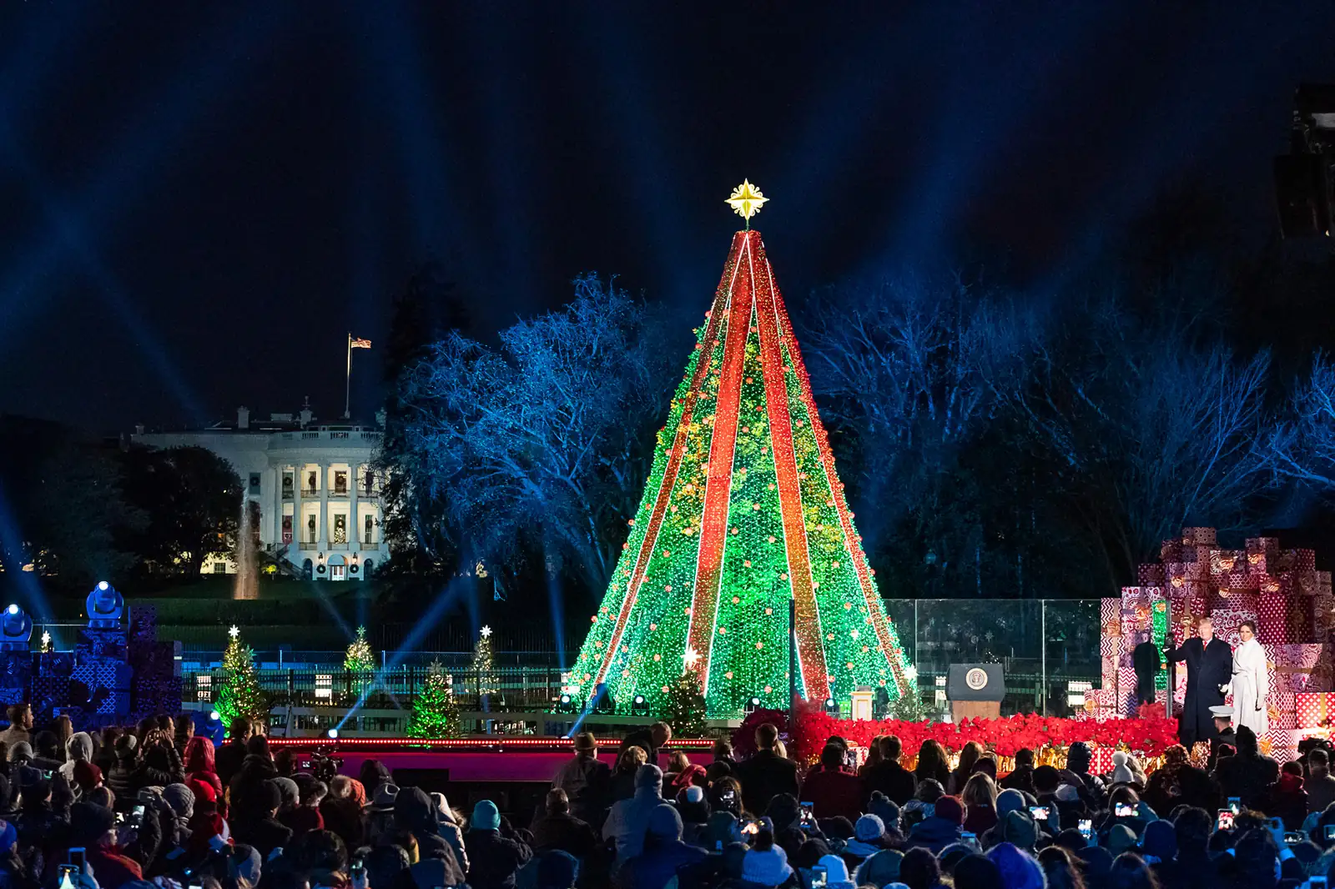
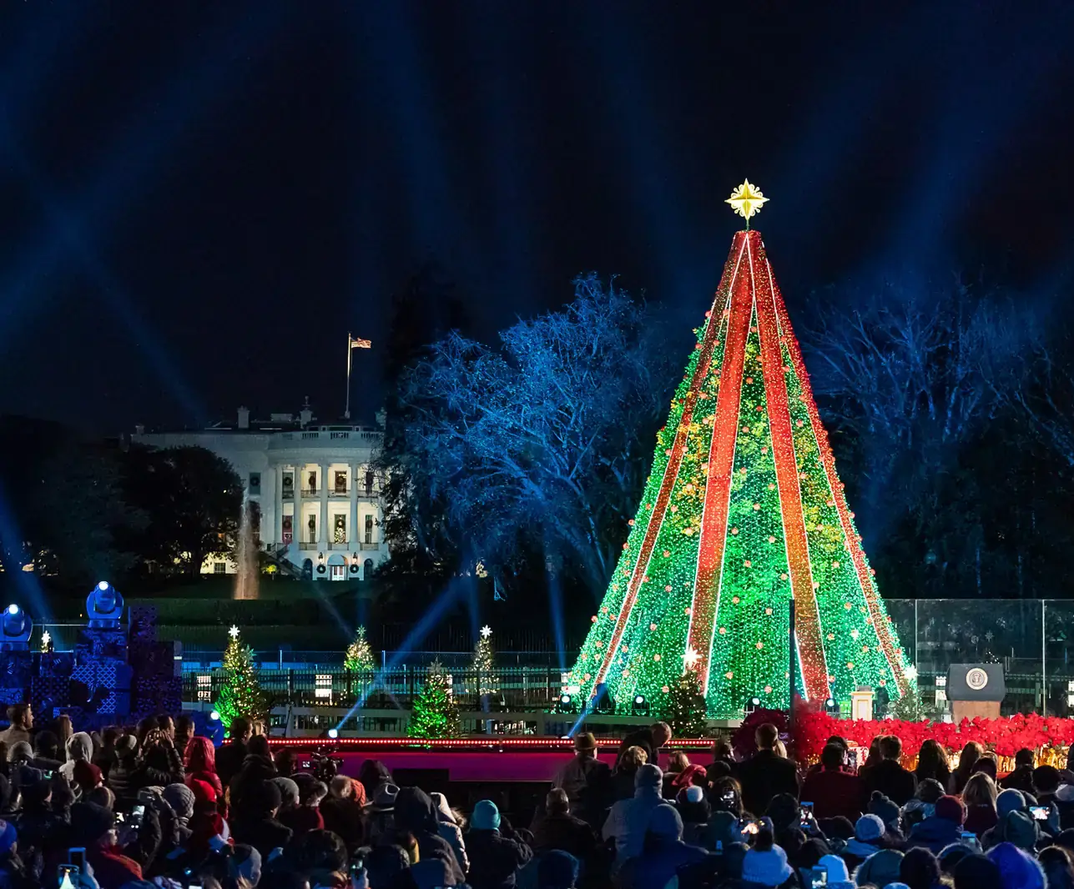
G16 step 4: Christmas in Washington, DC with kids
Claude-Session: https://claude.ai/code/session_018uWk6wfT1Zs6P4GHGXy4qS

diff --git a/site/holidays/washington-dc-christmas-with-kids.html b/site/holidays/washington-dc-christmas-with-kids.html
@@ -1,0 +1,243 @@
+<!doctype html>
+<html lang="en">
+  <head>
+    <meta charset="utf-8">
+    <meta name="viewport" content="width=device-width, initial-scale=1">
+    <title>Christmas in DC With Kids: Free and Paid Events, Family of 4 Cost | Family Tripwise</title>
+    <meta name="description" content="Christmas events in Washington, DC with kids: dates, what's free, ticket cost for a family of 4, ages and sensory sessions, from pages we read and date.">
+    <link rel="canonical" href="https://familytripwise.com/holidays/washington-dc-christmas-with-kids.html">
+    <meta property="og:type" content="article">
+    <meta property="og:site_name" content="Family Tripwise">
+    <meta property="og:title" content="Christmas in DC With Kids: Free and Paid Events, Family of 4 Cost | Family Tripwise">
+    <meta property="og:description" content="Christmas events in Washington, DC with kids: dates, what's free, ticket cost for a family of 4, ages and sensory sessions, from pages we read and date.">
+    <meta property="og:url" content="https://familytripwise.com/holidays/washington-dc-christmas-with-kids.html">
+    <meta property="og:image" content="https://familytripwise.com/images/og/holidays-washington-dc.png">
+    <meta property="og:image:type" content="image/png">
+    <meta property="og:image:width" content="1200">
+    <meta property="og:image:height" content="630">
+    <meta property="og:image:alt" content="Family Tripwise: Christmas in Washington, DC with kids, free and paid outings, cost for a family of 4">
+    <meta name="twitter:card" content="summary_large_image">
+    <link rel="stylesheet" href="../styles.css">
+  </head>
+  <body>
+    <a class="skip-link" href="#main">Skip to main content</a><header class="site-header"><a class="brand" href="../index.html" aria-label="Family Tripwise home"><svg class="brand-mark" viewBox="0 0 120 120" width="36" height="36" aria-hidden="true" focusable="false"><rect width="120" height="120" rx="26" fill="#0b4946"/><g transform="translate(60 62) scale(0.72) translate(-59 -62)"><circle cx="22" cy="30" r="10" fill="#fffaf2"/><rect x="12" y="45" width="20" height="59" rx="10" fill="#fffaf2"/><circle cx="46" cy="60" r="8" fill="#f0bd56"/><rect x="38.5" y="73" width="15" height="31" rx="7.5" fill="#f0bd56"/><circle cx="68" cy="66" r="7" fill="#8fd0c4"/><rect x="61.5" y="78" width="13" height="26" rx="6.5" fill="#8fd0c4"/><circle cx="96" cy="30" r="10" fill="#db6d4a"/><rect x="86" y="45" width="20" height="59" rx="10" fill="#db6d4a"/></g></svg><span class="brand-word"><span class="brand-word-a">family</span><span class="brand-word-b">tripwise</span></span></a><nav class="header-this-week-nav" aria-label="Fresh family events and deals"><a class="header-this-week header-deals" href="../deals/">Deals</a><a class="header-this-week" href="../this-week/">This week</a></nav><details class="city-menu"><summary><span class="menu-wide">Cities</span><span class="menu-narrow">Menu</span></summary><nav class="site-nav city-menu-list" aria-label="Site menu: this week, cities and how we check"><a class="menu-this-week" href="../this-week/">This week's events and deadlines</a><p class="menu-label" aria-hidden="true">Cities</p><a href="../where-to-stay/boston-family-hotels.html">Boston</a><a href="../where-to-stay/cancun-family-resorts.html">Cancun</a><a href="../things-to-do/chicago-with-kids.html">Chicago</a><a href="../things-to-do/las-vegas-with-kids.html">Las Vegas</a><a href="../where-to-stay/london-family-hotels.html">London, UK</a><a href="../things-to-do/new-york-city-with-kids.html">New York City</a><a href="../things-to-do/orlando-with-kids.html">Orlando</a><a href="../where-to-stay/puerto-vallarta-family-resorts.html">Puerto Vallarta</a><a href="../things-to-do/san-antonio-with-kids.html">San Antonio</a><a href="../things-to-do/san-diego-with-kids.html">San Diego</a><a href="../where-to-stay/washington-dc-family-hotels.html">Washington, DC</a><a class="menu-how" href="../about.html">How we check our facts</a></nav></details></header>
+    <main id="main" class="holiday-page">
+      <section class="page-hero">
+        <div class="container">
+          <p class="eyebrow">Washington, DC · Christmas with kids</p>
+          <h1>Christmas in Washington,&nbsp;DC With Kids: 11&nbsp;Outings and What They Cost a Family of 4</h1>
+          <p>Dates, what's free and ticket costs for 2 adults and 2 kids.</p>
+          <p class="contributor-credit">Researched with AI (<a href="../contributors/miles-rowan.html">Miles Rowan</a>) · sources linked and dated · <a href="../about.html">How we check</a></p>
+        </div>
+      </section>
+      <section id="holiday-answer" class="container answer-box" aria-label="The short answer">
+        <p class="holiday-answer-figure"><span>Paid outings: tickets for 4, per outing</span><strong>≈ $30 to $152</strong><small>estimate; these are starting or listed prices, and tax, fees or parking can add more.</small></p>
+        <ul>
+          <li><strong>Our pick for under 6:</strong> <a href="#seasons-greenings">Season&#39;s Greenings</a>, free, no tickets, strollers welcome</li>
+          <li><strong>Free:</strong> <a href="#holiday-market">DowntownDC Holiday Market</a>, from Nov 13; <a href="#seasons-greenings">Season&#39;s Greenings</a>, from Nov 26; <a href="#national-tree">National Christmas Tree lighting</a>, Dec 3, tickets by lottery; <a href="#wharf-boat-parade">Holiday Boat Parade &amp; Party</a>, Dec 5; 1 more below</li>
+          
+          
+        </ul>
+      </section>
+      <section class="container media-section hero-photo-section">
+        <figure class="licensed-photo hero-photo">
+          <img src="../images/dc-national-christmas-tree.webp" alt="The National Christmas Tree lit up at night on the Ellipse, with the White House behind it" width="1287" height="1066" loading="eager" fetchpriority="high" decoding="async">
+          <figcaption>The National Christmas Tree in 2018; an older photo, not this year&#39;s display. Photo: White House. Andrea Hanks, photographer via <a href="https://commons.wikimedia.org/wiki/File:2018_National_Christmas_Tree.jpg">Wikimedia Commons</a>, Public domain. Resized and cropped.</figcaption>
+        </figure>
+      </section>
+      <section class="container page-section" aria-labelledby="holiday-table-title">
+        <h2 id="holiday-table-title">Compare the 11 outings, free first</h2>
+        <div class="holiday-table-wrap">
+          <table class="holiday-table holiday-table-city">
+            <caption><span>Family of 4: 2 adults + 2 kids, ages 4 and 8. Estimates, not quotes; tax, fees or parking may be added, see each card. Bull Run is priced per vehicle. Travel and food not counted.</span></caption>
+            <thead><tr><th scope="col">Outing</th><th scope="col">Dates</th><th scope="col">Tickets for 4</th></tr></thead>
+            <tbody>
+              <tr><th scope="row"><a href="#holiday-market">DowntownDC Holiday Market</a><small>F Street NW, 7th to 9th Streets</small><small class="holiday-when-inline">Nov 13 to Dec 23</small></th><td class="holiday-when">Nov 13 to Dec 23</td><td class="holiday-cost">Free</td></tr>
+              <tr><th scope="row"><a href="#seasons-greenings">Season&#39;s Greenings</a><small>U.S. Botanic Garden, on the National Mall</small><small class="holiday-when-inline">Nov 26 to Jan 3, not Dec 25</small></th><td class="holiday-when">Nov 26 to Jan 3, not Dec 25</td><td class="holiday-cost">Free</td></tr>
+              <tr><th scope="row"><a href="#national-tree">National Christmas Tree lighting</a><small>The Ellipse, President&#39;s Park</small><small class="holiday-when-inline">Thu Dec 3, lottery tickets</small></th><td class="holiday-when">Thu Dec 3, lottery tickets</td><td class="holiday-cost">Free</td></tr>
+              <tr><th scope="row"><a href="#wharf-boat-parade">Holiday Boat Parade &amp; Party</a><small>The Wharf, District Pier</small><small class="holiday-when-inline">Sat Dec 5, from 5 p.m.</small></th><td class="holiday-when">Sat Dec 5, from 5 p.m.</td><td class="holiday-cost">Free</td></tr>
+              <tr><th scope="row"><a href="#frost-fair">Folger Frost Fair</a><small>Folger Shakespeare Library, Capitol Hill</small><small class="holiday-when-inline">Nov 27 to Jan 3</small></th><td class="holiday-when">Nov 27 to Jan 3</td><td class="holiday-cost">Free entry</td></tr>
+              <tr><th scope="row"><a href="#bull-run">Bull Run Festival of Lights</a><small>Bull Run, Centreville, VA</small><small class="holiday-when-inline">Nov 14 to Jan 3</small></th><td class="holiday-when">Nov 14 to Jan 3</td><td class="holiday-cost"><span class="holiday-nowrap">≈ $30 to $45</span></td></tr>
+              <tr><th scope="row"><a href="#zoolights">ZooLights</a><small>Smithsonian&#39;s National Zoo</small><small class="holiday-when-inline">Nov 20 to Jan 3, not Dec 16</small></th><td class="holiday-when">Nov 20 to Jan 3, not Dec 16</td><td class="holiday-cost"><span class="holiday-nowrap">≈ $40</span></td></tr>
+              <tr><th scope="row"><a href="#meadowlark">Winter Walk of Lights</a><small>Meadowlark Botanical Gardens, Vienna, VA</small><small class="holiday-when-inline">Nov 11 to Jan 3</small></th><td class="holiday-when">Nov 11 to Jan 3</td><td class="holiday-cost"><span class="holiday-nowrap">≈ $76 to $92</span></td></tr>
+              <tr><th scope="row"><a href="#enchant">Enchant Christmas</a><small>Nationals Park</small><small class="holiday-when-inline">Nov 20 to Dec 27</small></th><td class="holiday-when">Nov 20 to Dec 27</td><td class="holiday-cost"><span class="holiday-nowrap">From ≈ $112</span></td></tr>
+              <tr><th scope="row"><a href="#mount-vernon">Christmas Illuminations</a><small>George Washington&#39;s Mount Vernon, VA</small><small class="holiday-when-inline">Dec 19 and 20, evenings</small></th><td class="holiday-when">Dec 19 and 20, evenings</td><td class="holiday-cost"><span class="holiday-nowrap">≈ $152</span></td></tr>
+              <tr><th scope="row"><a href="#gaylord-ice">ice! at Gaylord National</a><small>Gaylord National Resort, National Harbor, MD</small><small class="holiday-when-inline">Nov 14 to Jan 3</small></th><td class="holiday-when">Nov 14 to Jan 3</td><td class="holiday-cost">Check live</td></tr>
+            </tbody>
+          </table>
+        </div>
+        
+      </section>
+      <section class="container page-section" aria-labelledby="holiday-pick-title">
+        <h2 id="holiday-pick-title">Which one fits your kids</h2>
+        <ul class="holiday-picks"><li><strong>Kids under 6:</strong> <a href="#seasons-greenings">Season&#39;s Greenings</a>. Daytime trains with no tickets, so you can leave when naps call.</li><li><strong>Ages 4 and 8 together:</strong> <a href="#zoolights">ZooLights</a>. Animal lanterns from 5 p.m., before bedtime, with a maze and mini-train for the older one.</li><li><strong>Keeping tickets at zero:</strong> <a href="#seasons-greenings">Season&#39;s Greenings</a>, <a href="#holiday-market">DowntownDC Holiday Market</a>, <a href="#wharf-boat-parade">Holiday Boat Parade &amp; Party</a>. Free to enter; food, parking and shopping may cost.</li><li><strong>Sensory-friendly:</strong> <a href="#seasons-greenings">Season&#39;s Greenings</a>. Dec 5 in the morning; sign up first. Jan 2 in the evening; sign up first.</li><li><strong>Staying in the car:</strong> <a href="#bull-run">Bull Run Festival of Lights</a>. A light drive that still works if a child falls asleep.</li><li><strong>One big night:</strong> <a href="#mount-vernon">Christmas Illuminations</a>. Two nights only, with a lit maze, a camel and fireworks.</li></ul>
+        <p class="holiday-note">Our picks from the published details, not from a visit. We have no crowd data of our own, so we don't name quiet nights.</p>
+      </section>
+      <section class="container page-section" aria-labelledby="holiday-cards-title">
+        <h2 id="holiday-cards-title">Outing by outing</h2>
+        <div class="holiday-cards">
+          <article id="holiday-market" class="holiday-card">
+            <h3>DowntownDC Holiday Market</h3>
+            <p class="holiday-place">F Street NW, 7th to 9th Streets</p>
+            <p class="holiday-figure">Free<small>checked Nov 4</small></p>
+            <p class="holiday-dates"><strong>When:</strong> Nov 13 to Dec 23, 2026, closed Thanksgiving; Mon to Thu noon to 8 p.m., Fri and Sat 11 a.m. to 9 p.m., Sun 11 a.m. to 8 p.m.</p>
+            <ul><li>A zone just for kids, says the tourism board</li><li>Lights, and live concerts Thursday to Sunday</li></ul>
+            <p><strong>Costs extra:</strong> Shopping and food; prices vary by vendor.</p>
+            <details class="ds-card-more"><summary>Ticket details, tips and sources</summary>
+            <p><strong>Ticket:</strong> Free to walk in, says the tourism board.</p>
+            <p><strong>Good to know:</strong> We saw no stroller notes for this street market. Weekend evenings: check before you bring a stroller. Metro: Gallery Place-Chinatown.</p>
+            <p class="holiday-source"><a href="https://www.downtowndc.org/holiday-market/">DowntownDC Holiday Market</a> · <a href="https://washington.org/dc-guide-to/downtown-holiday-market">Tourism board guide</a> (read Nov 4 unless noted)</p>
+            </details>
+          </article>
+          <article id="seasons-greenings" class="holiday-card">
+            <h3>Season&#39;s Greenings</h3>
+            <p class="holiday-place">U.S. Botanic Garden, on the National Mall</p>
+            <p class="holiday-figure">Free<small>checked Nov 4</small></p>
+            <p class="holiday-dates"><strong>When:</strong> Nov 26, 2026 to Jan 3, 2027; 10 a.m. to 5 p.m., closed Dec 25; to 8 p.m. on Dec 8, 10, 15, 17, 22 and 29</p>
+            <ul><li>Model trains running through national parks and landmarks made from plant parts</li><li>Strollers welcome</li><li>Sensory-friendly openings Dec 5 (morning) and Jan 2 (evening); sign up first</li></ul>
+            <p><strong>Costs extra:</strong> Getting there and food on evening music nights; we saw no prices.</p>
+            <details class="ds-card-more"><summary>Ticket details, tips and sources</summary>
+            <p><strong>Ticket:</strong> Free: the garden says no admission fee and no tickets for any area.</p>
+            <p><strong>Good to know:</strong> The trains may stop in bad weather, and the train display is outdoors, so check the sky first.</p>
+            <p class="holiday-source"><a href="https://www.usbg.gov/holiday">U.S. Botanic Garden holiday page</a> (read Nov 4 unless noted)</p>
+            </details>
+          </article>
+          <article id="national-tree" class="holiday-card">
+            <h3>National Christmas Tree lighting</h3>
+            <p class="holiday-place">The Ellipse, President&#39;s Park</p>
+            <p class="holiday-figure">Free<small>checked Nov 4</small></p>
+            <p class="holiday-dates"><strong>When:</strong> Thu Dec 3, 2026, by free ticket only; lottery entries end Nov 4 at 3 p.m. ET, winners told Nov 12</p>
+            <ul><li>The park service hasn&#39;t described this year&#39;s display yet</li><li>In 2025: 59 smaller trees with ornaments designed by students</li></ul>
+            <p><strong>Costs extra:</strong> Getting there; ticket holders get arrival and security details before the night.</p>
+            <details class="ds-card-more"><summary>Ticket details, tips and sources</summary>
+            <p><strong>Ticket:</strong> Free: no charge for the lottery or tickets, up to 5 per winner, and no fee to visit the tree site.</p>
+            <p><strong>Good to know:</strong> Entering doesn&#39;t guarantee tickets. The park service says visiting details are still to come, so we can&#39;t give viewing dates or hours yet, or stroller notes.</p>
+            <p class="holiday-source"><a href="https://www.nps.gov/whho/planyourvisit/national-christmas-tree.htm">National Park Service tree page</a> · <a href="https://www.nps.gov/whho/learn/news/2026-national-christmas-tree-lighting-ticket-lottery-opens-oct-28.htm">Lottery notice</a> (read Nov 4 unless noted)</p>
+            </details>
+          </article>
+          <article id="wharf-boat-parade" class="holiday-card">
+            <h3>Holiday Boat Parade &amp; Party</h3>
+            <p class="holiday-place">The Wharf, District Pier</p>
+            <p class="holiday-figure">Free<small>checked Nov 4</small></p>
+            <p class="holiday-dates"><strong>When:</strong> Sat Dec 5, 2026: activities from 5 p.m., boats 7 p.m., fireworks about 8 p.m.</p>
+            <ul><li>Photos with Santa in The Grove</li><li>Ornament decorating and games at M Street Landing</li><li>Lit boats, then fireworks over the channel</li></ul>
+            <p><strong>Costs extra:</strong> Parking in The Wharf&#39;s garages, which fill fast on event days; we saw no price.</p>
+            <details class="ds-card-more"><summary>Ticket details, tips and sources</summary>
+            <p><strong>Ticket:</strong> Free for spectators, says The Wharf.</p>
+            <p><strong>Good to know:</strong> Boats don&#39;t arrive until 7 p.m., so small kids can do Santa and crafts at 5 and leave early. Fireworks are loud.</p>
+            <p class="holiday-source"><a href="https://www.wharfdc.com/boatparade/">The Wharf boat parade</a> (read Nov 4 unless noted)</p>
+            </details>
+          </article>
+          <article id="frost-fair" class="holiday-card">
+            <h3>Folger Frost Fair</h3>
+            <p class="holiday-place">Folger Shakespeare Library, Capitol Hill</p>
+            <p class="holiday-figure holiday-figure-text">Free entry<small>checked Nov 4</small></p>
+            <p class="holiday-dates"><strong>When:</strong> Nov 27, 2026 to Jan 3, 2027; hours not on the festival page</p>
+            <ul><li>Printing press demonstrations, with a printed souvenir to take home</li><li>Free family acting workshop, Dec 5 at 11:30 a.m. and 1 p.m.</li><li>Free family storytimes, Dec 22 to 24 at 10:30 a.m.</li></ul>
+            <p><strong>Costs extra:</strong> Other programs may charge; check each one.</p>
+            <details class="ds-card-more"><summary>Ticket details, tips and sources</summary>
+            <p><strong>Ticket:</strong> The tourism board says free admission with pay-what-you-will timed passes; the Folger&#39;s page gives no price for the whole fair.</p>
+            <p><strong>Good to know:</strong> No age range, hours or stroller notes on the festival page. Check your pass and time first.</p>
+            <p class="holiday-source"><a href="https://www.folger.edu/whats-on/programs/folger-frost-fair/">Folger Frost Fair</a> · <a href="https://washington.org/things-to-do-this-december-in-washington-dc">Tourism board December guide</a> (read Nov 4 unless noted)</p>
+            </details>
+          </article>
+          <article id="bull-run" class="holiday-card">
+            <h3>Bull Run Festival of Lights</h3>
+            <p class="holiday-place">Bull Run, Centreville, VA</p>
+            <p class="holiday-figure">≈ $30 to $45<small>tickets for 4, estimate; $30 to $45 a vehicle online, by date, price checked Nov 4</small></p>
+            <p class="holiday-dates"><strong>When:</strong> Daily, Nov 14, 2026 to Jan 3, 2027, weather permitting; 5:30 to 9:30 p.m. Mon to Thu, to 10 p.m. Fri to Sun and holidays</p>
+            <ul><li>A light drive you do from your own car</li><li>Carnival at the end with a petting zoo, Holiday Village and Stable, included</li><li>Carnival rides and camel rides cost extra</li></ul>
+            <p><strong>Costs extra:</strong> Tax, transaction fees, and rides, which aren&#39;t priced on the page.</p>
+            <details class="ds-card-more"><summary>Ticket details, tips and sources</summary>
+            <p><strong>Ticket:</strong> Price is per vehicle, not per person; buying early saves the most.</p>
+            <p><strong>Good to know:</strong> The carnival is closed on Thanksgiving; the light drive runs. You&#39;ll need a car, and this one is outside DC.</p>
+            <p class="holiday-source"><a href="https://www.novaparks.com/events/bull-run-festival-of-lights">NOVA Parks: Bull Run</a> (read Nov 4 unless noted)</p>
+            </details>
+          </article>
+          <article id="zoolights" class="holiday-card">
+            <h3>ZooLights</h3>
+            <p class="holiday-place">Smithsonian&#39;s National Zoo</p>
+            <p class="holiday-figure">≈ $40<small>tickets for 4, estimate; $10 each, ages 3 and up; 2 and under free, price checked Nov 4</small></p>
+            <p class="holiday-dates"><strong>When:</strong> Nov 20, 2026 to Jan 3, 2027; 5 to 9 p.m., Sundays to 8 p.m.; last entry 30 minutes before close; Dec 16 is 21+ only, Dec 8 and 9 are Member Nights</p>
+            <ul><li>Animal lanterns across ocean, desert, grassland, rainforest and polar areas</li><li>Winter maze, mini-train and carousel at extra cost</li><li>Saturday carolers on Dec 5, 12, 19 and 26</li></ul>
+            <p><strong>Costs extra:</strong> Parking $30 ahead or $40 that day; maze, mini-train and carousel $6 each; light-up glasses $3.</p>
+            <details class="ds-card-more"><summary>Ticket details, tips and sources</summary>
+            <p><strong>Ticket:</strong> Buy ahead: the zoo says capacity is limited. No refunds; exchanges up to 48 hours before.</p>
+            <p><strong>Good to know:</strong> Most animals are resting and indoor houses closed on regular nights, so go for the lights. The page has no stroller notes.</p>
+            <p class="holiday-source"><a href="https://nationalzoo.si.edu/visit/events/zoolights">National Zoo: ZooLights</a> (read Nov 4 unless noted)</p>
+            </details>
+          </article>
+          <article id="meadowlark" class="holiday-card">
+            <h3>Winter Walk of Lights</h3>
+            <p class="holiday-place">Meadowlark Botanical Gardens, Vienna, VA</p>
+            <p class="holiday-figure">≈ $76 to $92<small>tickets for 4, estimate; $19 each online to Dec 3 and Jan 1 to 3, $23 Dec 4 to 31; no child price shown, price checked Nov 4</small></p>
+            <p class="holiday-dates"><strong>When:</strong> Nov 11, 2026 to Jan 3, 2027; from 5:30 p.m. to Dec 3, from 5 p.m. after; last entry 9:30 p.m.</p>
+            <ul><li>Half-mile paved trail, stroller and wheelchair accessible</li><li>Hot drinks, pretzels and make-your-own s&#39;mores for sale</li></ul>
+            <p><strong>Costs extra:</strong> Tax and transaction fees; door price $24 when sold at the door.</p>
+            <details class="ds-card-more"><summary>Ticket details, tips and sources</summary>
+            <p><strong>Ticket:</strong> Dec 4 to 31 is online only, no door tickets.</p>
+            <p><strong>Good to know:</strong> The page doesn&#39;t say if babies or toddlers need a ticket. You&#39;ll need a car, and this one is outside DC. Tickets can&#39;t be refunded.</p>
+            <p class="holiday-source"><a href="https://www.novaparks.com/events/winter-walk-of-lights/ticket-information">NOVA Parks: ticket information</a> (read Nov 4 unless noted)</p>
+            </details>
+          </article>
+          <article id="enchant" class="holiday-card">
+            <h3>Enchant Christmas</h3>
+            <p class="holiday-place">Nationals Park</p>
+            <p class="holiday-figure">From ≈ $112<small>tickets for 4, estimate; from $28 a ticket; price varies by date, time and demand, price checked Nov 4</small></p>
+            <p class="holiday-dates"><strong>When:</strong> Nov 20 to Dec 27, 2026</p>
+            <ul><li>Light maze billed as the world&#39;s largest</li><li>Santa visit, live music and caroling</li><li>Skating and a snow slide at extra cost</li></ul>
+            <p><strong>Costs extra:</strong> Parking, skating and the snow slide are add-ons; we saw no prices.</p>
+            <details class="ds-card-more"><summary>Ticket details, tips and sources</summary>
+            <p><strong>Ticket:</strong> A family offer for 2 adults and 2 juniors is listed; we saw no price for it.</p>
+            <p><strong>Good to know:</strong> no refunds; date changes up to 24 hours before. We saw no age or stroller rules.</p>
+            <p class="holiday-source"><a href="https://www.enchantchristmas.com/washington-dc/">Enchant Christmas DC</a> (read Nov 4 unless noted)</p>
+            </details>
+          </article>
+          <article id="mount-vernon" class="holiday-card">
+            <h3>Christmas Illuminations</h3>
+            <p class="holiday-place">George Washington&#39;s Mount Vernon, VA</p>
+            <p class="holiday-figure">≈ $152<small>tickets for 4, estimate; $58 ages 12+, $36 ages 6 to 11, 5 and under free; your 4-year-old is free, price checked Nov 4</small></p>
+            <p class="holiday-dates"><strong>When:</strong> Sat Dec 19 and Sun Dec 20, 2026, 5:30 to 8:30 p.m.; fireworks about 8 p.m.</p>
+            <ul><li>Straw-bale kids&#39; maze filled with Christmas lights</li><li>Aladdin the Camel and carols in the field</li><li>Fireworks over the Potomac</li></ul>
+            <p><strong>Costs extra:</strong> Parking is free, first come. Mansion tour add-on $5; s&#39;mores kit $8 for 2.</p>
+            <details class="ds-card-more"><summary>Ticket details, tips and sources</summary>
+            <p><strong>Ticket:</strong> Separate from daytime estate tickets: the estate closes between the two.</p>
+            <p><strong>Good to know:</strong> Large strollers and stroller wagons aren&#39;t allowed on the east lawn; the page gives no other stroller rule. Fireworks are loud and late for small kids.</p>
+            <p class="holiday-source"><a href="https://www.mountvernon.org/plan-your-visit/calendar/events/christmas-illuminations-at-mount-vernon">Mount Vernon event page</a> (read Nov 4 unless noted)</p>
+            </details>
+          </article>
+          <article id="gaylord-ice" class="holiday-card">
+            <h3>ice! at Gaylord National</h3>
+            <p class="holiday-place">Gaylord National Resort, National Harbor, MD</p>
+            <p class="holiday-figure holiday-figure-text">Check live<small>we couldn't read a price on Nov 4</small></p>
+            <p class="holiday-dates"><strong>When:</strong> Resort Christmas season Nov 14, 2026 to Jan 3, 2027; the ice! page lists no separate dates</p>
+            <ul><li>Grinch-themed ice sculptures and two-story ice slides, billed for all ages</li><li>Self-guided, with no time limit</li><li>Free Coca-Cola Christmas Caravan, Nov 15 to 18 only</li></ul>
+            <p><strong>Costs extra:</strong> Tickets and day parking; neither price is on the pages we could read.</p>
+            <details class="ds-card-more"><summary>Ticket details, tips and sources</summary>
+            <p><strong>Ticket:</strong> Tickets sell through the resort&#39;s ticket link; bundle passes and some ID discounts are listed.</p>
+            <p><strong>Good to know:</strong> It&#39;s kept at 9 degrees Fahrenheit, so bring real coats. No stroller rule on the page. Blackout dates apply to offers.</p>
+            <p class="holiday-source"><a href="https://www.christmasatgaylordnational.com/ice">ice! page</a> · <a href="https://www.christmasatgaylordnational.com/">Season dates</a> (read Nov 4 unless noted)</p>
+            </details>
+          </article>
+        </div>
+      </section>
+      <section class="container page-section" aria-labelledby="holiday-also-title">
+        <h2 id="holiday-also-title">More to look up</h2>
+        <p>Dates from the <a href="https://washington.org/things-to-do-this-december-in-washington-dc">Destination DC December guide</a>, the tourism board, read Nov 4. It lists no prices for these, and we haven't checked them further.</p>
+        <ul class="holiday-picks"><li>Jingle Block Rock, free, with Santa photos and donut decorating: Dec 2, 5 to 7 p.m., Southwest Duck Pond</li><li>Georgetown Jingle, free music along M Street: Dec 6</li><li>Step Afrika! Magical Musical Holiday Step Show, Arena Stage: Dec 4 to 23</li><li>The Nutcracker, The Washington Ballet, Warner Theatre: through Dec 27</li><li>Skating rinks open for winter; last year&#39;s dates only on the guide, so check each rink</li></ul>
+      </section>
+      <section class="container page-section" aria-labelledby="holiday-more-title">
+        <h2 id="holiday-more-title">Planning the rest of the trip</h2>
+        <ul class="holiday-picks">
+          <li><a href="../family-itinerary/washington-dc-with-kids.html">A Washington, DC day plan with kids</a>, all year</li>
+          <li><a href="../where-to-stay/washington-dc-family-hotels.html">Family hotels in Washington, DC</a></li>
+          <li><a href="./theme-park-christmas-events-with-kids.html">Theme park Christmas events, compared</a></li>
+        </ul>
+      </section>
+      <section class="container trust-panel" aria-label="How we check">
+        <p><strong>How we check:</strong> we read organizer or official tourism pages on the date shown, and say so when a fact comes only from a news report. Market and Frost Fair entry notes come from the tourism board where the organizer&#39;s page doesn&#39;t say. We have not been to these events. Family figures add the published prices for 2 adults and 2 kids.</p>
+      </section>
+    </main>
+    <footer class="site-footer"><p>Family Tripwise uses research-based planning notes. Hotel fees, hours, policies, closures, and transit conditions can change, so verify important details before booking.</p><nav class="guide-directory" aria-label="All family guides"><h2>All family guides</h2><ul><li><span class="guide-directory-city">Chicago:</span> <a href="../things-to-do/chicago-with-kids.html">Things to do with kids</a><span aria-hidden="true"> · </span><a href="../things-to-do/chicago-with-teens.html">Chicago with teens</a><span aria-hidden="true"> · </span><a href="../where-to-stay/chicago-with-kids.html">Where to stay (areas)</a><span aria-hidden="true"> · </span><a href="../where-to-stay/chicago-family-hotels.html">Family hotels</a><span aria-hidden="true"> · </span><a href="../family-itinerary/chicago-with-kids.html">Family itinerary</a></li><li><span class="guide-directory-city">San Antonio:</span> <a href="../things-to-do/san-antonio-with-kids.html">Things to do with kids</a><span aria-hidden="true"> · </span><a href="../things-to-do/san-antonio-with-teens.html">San Antonio with teens</a><span aria-hidden="true"> · </span><a href="../where-to-stay/san-antonio-with-kids.html">Where to stay (areas)</a><span aria-hidden="true"> · </span><a href="../where-to-stay/san-antonio-family-hotels.html">Family hotels</a><span aria-hidden="true"> · </span><a href="../family-itinerary/san-antonio-with-kids.html">Family itinerary</a></li><li><span class="guide-directory-city">San Diego:</span> <a href="../things-to-do/san-diego-with-kids.html">Things to do with kids</a><span aria-hidden="true"> · </span><a href="../things-to-do/san-diego-with-toddlers.html">San Diego with toddlers</a><span aria-hidden="true"> · </span><a href="../things-to-do/san-diego-with-teens.html">San Diego with teens</a><span aria-hidden="true"> · </span><a href="../where-to-stay/san-diego-with-kids.html">Where to stay (areas)</a><span aria-hidden="true"> · </span><a href="../where-to-stay/san-diego-family-hotels.html">Family hotels</a><span aria-hidden="true"> · </span><a href="../family-itinerary/san-diego-with-kids.html">Family itinerary</a></li><li><span class="guide-directory-city">Las Vegas:</span> <a href="../things-to-do/las-vegas-with-kids.html">Things to do with kids</a><span aria-hidden="true"> · </span><a href="../things-to-do/las-vegas-with-teens.html">Las Vegas with teens</a><span aria-hidden="true"> · </span><a href="../where-to-stay/las-vegas-with-kids.html">Where to stay (areas)</a><span aria-hidden="true"> · </span><a href="../where-to-stay/las-vegas-family-hotels.html">Family hotels</a><span aria-hidden="true"> · </span><a href="../family-itinerary/las-vegas-with-kids.html">Family itinerary</a></li><li><span class="guide-directory-city">New York City:</span> <a href="../things-to-do/new-york-city-with-kids.html">Things to do with kids</a><span aria-hidden="true"> · </span><a href="../things-to-do/new-york-city-with-teens.html">New York City with teens</a><span aria-hidden="true"> · </span><a href="../where-to-stay/new-york-city-with-kids.html">Where to stay (areas)</a><span aria-hidden="true"> · </span><a href="../where-to-stay/new-york-city-family-hotels.html">Family hotels</a><span aria-hidden="true"> · </span><a href="../family-itinerary/new-york-city-with-kids.html">Family itinerary</a></li><li><span class="guide-directory-city">Orlando:</span> <a href="../things-to-do/orlando-with-kids.html">Things to do with kids</a><span aria-hidden="true"> · </span><a href="../where-to-stay/orlando-family-hotels.html">Family suite hotels</a></li><li><span class="guide-directory-city">Washington, DC:</span> <a href="../where-to-stay/washington-dc-family-hotels.html">Family hotels</a><span aria-hidden="true"> · </span><a href="../family-itinerary/washington-dc-with-kids.html">Family itinerary</a></li><li><span class="guide-directory-city">Boston:</span> <a href="../where-to-stay/boston-family-hotels.html">Family hotels</a><span aria-hidden="true"> · </span><a href="../family-itinerary/boston-with-kids.html">Family itinerary</a></li><li><span class="guide-directory-city">London:</span> <a href="../where-to-stay/london-family-hotels.html">Family hotels and apartments</a></li><li><span class="guide-directory-city">Cancun:</span> <a href="../where-to-stay/cancun-family-resorts.html">Family resorts</a></li><li><span class="guide-directory-city">Puerto Vallarta:</span> <a href="../where-to-stay/puerto-vallarta-family-resorts.html">Family resorts</a></li></ul></nav><p class="footer-links"><a href="../about.html">How our family travel guides are built</a><span aria-hidden="true"> · </span><a href="../privacy.html">Privacy</a><span aria-hidden="true"> · </span><a href="../terms.html">Terms</a></p></footer>
+  </body>
+</html>

diff --git a/site/this-week/index.html b/site/this-week/index.html
@@ -37,7 +37,7 @@
       <section id="this-week-answer" class="container answer-box" aria-label="Coming up first">
         <p><strong>Coming up first:</strong></p>
         <ul class="fresh-upcoming"><li><a href="#dc-national-tree-lottery-2026">National Christmas Tree Lighting: free ticket lottery closes November 4</a> <span class="fresh-upcoming-meta">(Washington, DC, November 4, 2026)</span></li><li><a href="#orlando-very-merry-party-2026">Mickey&#39;s Very Merry Christmas Party: 25 nights at Magic Kingdom</a> <span class="fresh-upcoming-meta">(Orlando, November 8, 2026)</span></li><li><a href="#orlando-gaylord-palms-ice-2026">Gaylord Palms ice! near Orlando: The Polar Express carved in ice at 9°F</a> <span class="fresh-upcoming-meta">(Orlando, November 13, 2026)</span></li><li><a href="#dc-gaylord-national-ice-2026">Gaylord National ice! near DC: the Grinch carved in ice at 9°F</a> <span class="fresh-upcoming-meta">(Washington, DC, November 14, 2026)</span></li><li><a href="#orlando-universal-holidays-2026">Holidays at Universal Orlando: included in theme park admission</a> <span class="fresh-upcoming-meta">(Orlando, November 14, 2026)</span></li><li><a href="#nyc-nybg-holiday-train-show-2026">Holiday Train Show at the New York Botanical Garden: two sensory-friendly mornings</a> <span class="fresh-upcoming-meta">(New York City, November 14, 2026)</span></li></ul>
-        <p class="fresh-jump"><strong>Christmas plans?</strong> <a href="../holidays/theme-park-christmas-events-with-kids.html">Theme park Christmas events, compared for a family of 4</a> · <a href="../holidays/san-diego-christmas-with-kids.html">Christmas in San Diego with kids</a> · <a href="../holidays/orlando-christmas-with-kids.html">Christmas in Orlando with kids</a> · <a href="../holidays/san-antonio-christmas-with-kids.html">Christmas in San Antonio with kids</a></p>
+        <p class="fresh-jump"><strong>Christmas plans?</strong> <a href="../holidays/theme-park-christmas-events-with-kids.html">Theme park Christmas events, compared for a family of 4</a> · <a href="../holidays/san-diego-christmas-with-kids.html">Christmas in San Diego with kids</a> · <a href="../holidays/orlando-christmas-with-kids.html">Christmas in Orlando with kids</a> · <a href="../holidays/san-antonio-christmas-with-kids.html">Christmas in San Antonio with kids</a> · <a href="../holidays/washington-dc-christmas-with-kids.html">Christmas in Washington, DC with kids</a></p>
         <p class="fresh-jump"><strong>By city:</strong> <a href="#chicago">Chicago (1)</a> <a href="#san-antonio">San Antonio (1)</a> <a href="#san-diego">San Diego (1)</a> <a href="#new-york-city">NYC (2)</a> <a href="#orlando">Orlando (4)</a> <a href="#washington-dc">Washington DC (3)</a> <a href="#boston">Boston (3)</a> <a href="#london">London, UK (2)</a></p>
       </section>
       <section class="container media-section hero-photo-section">

diff --git a/site/deals/index.html b/site/deals/index.html
@@ -116,7 +116,7 @@
             <p class="deal-source">Official page, checked October 30, 2026: <a href="https://www.legoland.com/florida/places-to-stay/vacation-packages/hotel-plus-ticket-package/">LEGOLAND Florida Hotel + Ticket Package page</a></p>
           </article>
         </div>
-        <p class="fresh-guide-link">Offers leave this list after their booking deadline. Planning a holiday outing? See <a href="../holidays/theme-park-christmas-events-with-kids.html">theme park Christmas events, compared</a>, or Christmas with kids in <a href="../holidays/san-diego-christmas-with-kids.html">San Diego</a>, <a href="../holidays/orlando-christmas-with-kids.html">Orlando</a> or <a href="../holidays/san-antonio-christmas-with-kids.html">San Antonio</a>. For dated family events, see <a href="../this-week/">this week's events and deadlines</a>.</p>
+        <p class="fresh-guide-link">Offers leave this list after their booking deadline. Planning a holiday outing? See <a href="../holidays/theme-park-christmas-events-with-kids.html">theme park Christmas events, compared</a>, or Christmas with kids in <a href="../holidays/san-diego-christmas-with-kids.html">San Diego</a>, <a href="../holidays/orlando-christmas-with-kids.html">Orlando</a>, <a href="../holidays/san-antonio-christmas-with-kids.html">San Antonio</a> or <a href="../holidays/washington-dc-christmas-with-kids.html">Washington, DC</a>. For dated family events, see <a href="../this-week/">this week's events and deadlines</a>.</p>
       </section>
       <section class="container page-section" aria-labelledby="deals-other-title">
         <h2 id="deals-other-title">Other offers we checked (6)</h2>

diff --git a/site/holidays/theme-park-christmas-events-with-kids.html b/site/holidays/theme-park-christmas-events-with-kids.html
@@ -217,7 +217,7 @@
       </section>
       <section class="container page-section" aria-labelledby="holiday-city-title">
         <h2 id="holiday-city-title">City outings</h2>
-        <p>What's free and what it costs a family of 4: <a href="./san-diego-christmas-with-kids.html">Christmas in San Diego with kids</a> · <a href="./orlando-christmas-with-kids.html">Christmas in Orlando with kids</a> · <a href="./san-antonio-christmas-with-kids.html">Christmas in San Antonio with kids</a>.</p>
+        <p>What's free and what it costs a family of 4: <a href="./san-diego-christmas-with-kids.html">Christmas in San Diego with kids</a> · <a href="./orlando-christmas-with-kids.html">Christmas in Orlando with kids</a> · <a href="./san-antonio-christmas-with-kids.html">Christmas in San Antonio with kids</a> · <a href="./washington-dc-christmas-with-kids.html">Christmas in Washington, DC with kids</a>.</p>
       </section>
       <section class="container trust-panel" aria-label="How we check">
         <p><strong>How we check:</strong> we read each park's own page on the date shown. We have not visited these events. Family figures are the published per-person price times 4. We found no lower child day-ticket price on the ticket pages we read, though one park shows its child price only at checkout (its card says so); free preschool cards are noted on the park's card where we read one.</p>

diff --git a/docs/research/holiday-washington-dc-2026-11-04.md b/docs/research/holiday-washington-dc-2026-11-04.md
@@ -1,0 +1,22 @@
+# Washington, DC Christmas with kids: facts read 2026-11-04 (QUEUE G16 step 4)
+
+Official pages unless marked. URL approved by OWNER D32. Extracted facts only.
+
+| Source | Observed value | Change vs previous |
+|---|---|---|
+| nationalzoo.si.edu visit/events/zoolights | Nov 20, 2026-Jan 3, 2027; Mon-Sat 5-9, Sun 5-8, last entry 30 min before close; general $10, ages 3+ ticket, 2 and under free; adults-only Dec 16 (21+) $19; member nights Dec 8, 9; parking $30 ahead, $40 day-of; maze $6, mini-train $6, carousel $6, glasses $3; no refunds, exchange to 48 h; no stroller note | First read. Tourism board says $6: zoo page used |
+| nps.gov whho national-christmas-tree (updated Oct 19), lottery notice | Lighting Dec 3 on the Ellipse, no time; lottery Oct 28 10 a.m. to Nov 4 3 p.m. ET; winners told Nov 12; up to 5 tickets; free; no fee to visit the site; visiting details "forthcoming"; 2025 display 59 trees with student ornaments | Viewing dates unknown |
+| usbg.gov/holiday | Nov 26-Jan 3; 10-5 daily, closed Dec 25; to 8 p.m. Dec 8, 10, 15, 17, 22, 29; free, no tickets; trains may not run in bad weather; strollers welcome; sensory Dec 5 morning, Jan 2 evening, registration | First read |
+| downtowndc.org holiday-market, holiday-happenings; washington.org guide | Nov 13-Dec 23, closed Thanksgiving; Mon-Thu 12-8, Fri-Sat 11-9, Sun 11-8; F St 7th-9th; tourism board: free, kids' zone, concerts Thu-Sun. Page meta description still says Nov 21 (old); headline, happenings and tourism board say Nov 13 | First read |
+| wharfdc.com/boatparade | Sat Dec 5, 2026: activities 5, boats 7, fireworks about 8; free for spectators; Santa in The Grove; ornaments and games at M Street Landing; garages fill fast | First read |
+| folger.edu Frost Fair; washington.org December | Nov 27-Jan 3; printing press demos; free family workshop Dec 5 11:30 and 1; free storytimes Dec 22-24 10:30; hours and fair price not on page. Tourism board: free admission, pay-what-you-will timed passes | First read |
+| novaparks.com bull-run-festival-of-lights | Nov 14-Jan 3 daily, weather permitting; Mon-Thu 5:30-9:30, Fri-Sun and holidays 5:30-10; $30-45 per vehicle online, tax and fees extra; carnival closed Thanksgiving; petting zoo; rides and camel rides extra | First read |
+| novaparks.com winter-walk-of-lights ticket-information | Nov 11-Jan 3; $19 online/$24 door Nov 11-Dec 3 and Jan 1-3; $23 online only Dec 4-31; excludes tax and fees; stroller accessible | Same as Nov 3 |
+| enchantchristmas.com/washington-dc | Nov 20-Dec 27, Nationals Park; from $28, varies by date, time, demand; family offer 2 adults 2 juniors, no price; parking, skating, snow slide add-ons; non-refundable; no free-kids offer on the page | Same as Nov 3 |
+| mountvernon.org christmas-illuminations | Dec 19-20, 5:30-8:30, fireworks about 8; $58 ages 12+, $36 ages 6-11, 5 and under free; Mansion $5; s'mores $8 for 2; parking free, first come; large strollers and wagons not allowed on east lawn | First read |
+| christmasatgaylordnational.com, /ice, /offers | Season Nov 14-Jan 3; ice! no own dates, no ticket or parking price; 9 F; no time limit; all ages; slides; Caravan Nov 15-18 complimentary | Price unknown |
+
+Family of 4 (2 adults, kids 4 and 8), sums of published prices: ZooLights $40; Meadowlark $76-$92; Enchant from $112; Mount Vernon $152; Bull Run $30-$45 per vehicle.
+Not used: NGA rink (page would not open), rink pages (tourism guide shows 2025-26 only), Fairmont Santa Suite (ticket page refused; tourism dates odd), Jingle Block Rock event page (only tourism board, in More to look up).
+Photo: 2018 National Christmas Tree, White House photo, public domain; right edge cropped to leave out people on stage. Daytime alternative not needed.
+Slips: Meadowlark ticket page and Enchant DC page were re-read inside their one-week limit (both last read Nov 3); same figures. Enchant flag t-dc6342507a stays pending: re-read from Nov 10.
